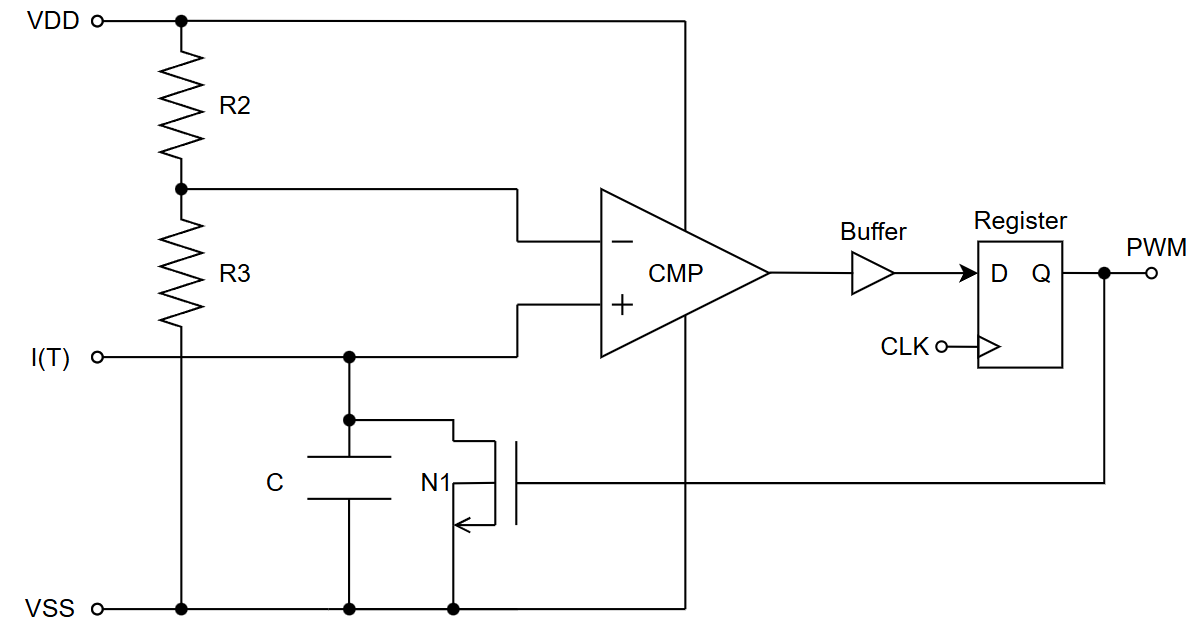
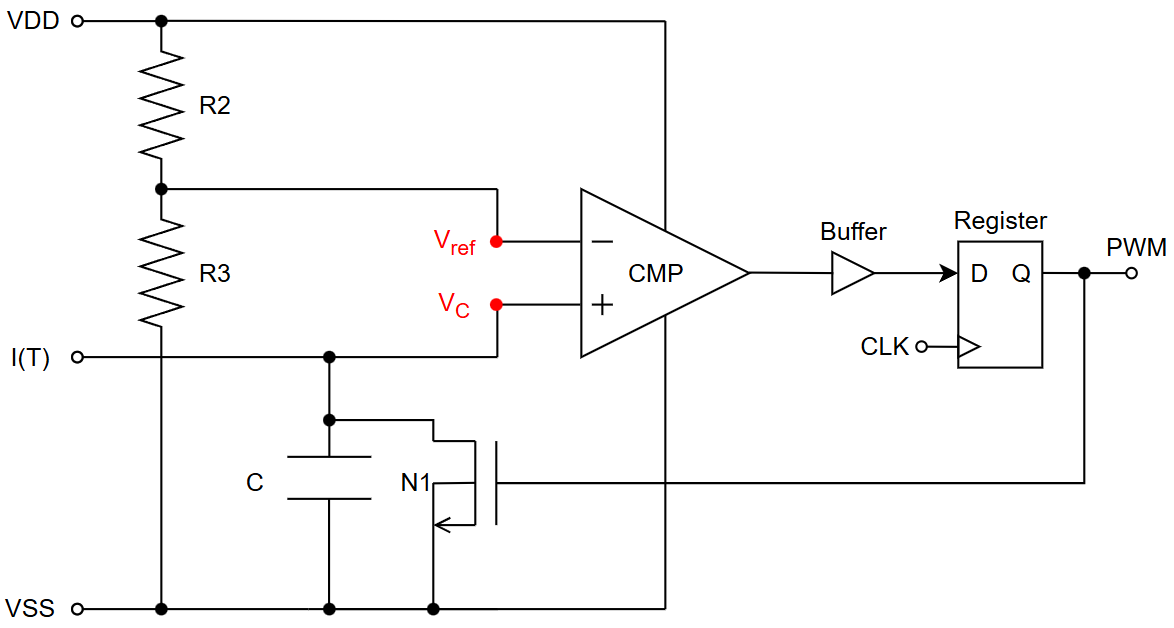
some minor fixes and extra images

Changed region(s): [[0.0, 0.0, 1.0, 0.9984], [0.5826, 0.4538, 0.6133, 0.4841]]

diff --git a/README.md b/README.md
@@ -15,7 +15,11 @@ The system is depicted below
 
 # Temp to Current, PTAT
 The PTAT circuit can be found in "design/JNW_GR07_SKY130A/temp_to_current.sch", and is shown
-in the image below. The circuit exploits the temperature (T) dependency and size difference (N)
+in the image below. 
+
+![i_ptat](/Images/PTAT.png)
+
+The circuit exploits the temperature (T) dependency and size difference (N)
 of diode 1 and diode 2 to create a current I(T) dependent on temperature. The voltage over diode 1
 is $V_{D1} = V_T ln\frac{I_D}{I_{S1}}$, and the voltage over diode 2 is $V_{D2} = V_T ln\frac{I_D}{I_{S2}}$.
 Assuming that the opamp is ideal, the voltage on it's negative input is set equal to it's positive input,
@@ -25,29 +29,33 @@ The current through $R_1$ is then $I_{R_1} = \frac{V_{R_1}}{R_1} = \frac{V_t}{R_
 Since $V_T = \frac{kT}{q}$, we get a current proportional to temperature: $I_{R_1}(T) = \frac{kT}{qR_1} ln(N)$. This current is copied using a current mirror,
  creating $I(T)$ and used as an output.
 
-![i_ptat](/Images/PTAT.png)
 
-\textbf{Note}: The diodes are realized by NPN transistors.
+
+**Note**: The diodes are realized by the NPN transistors Q1 and Q2.
 
 # Current to PWM
 The current to PWM circuit can be found in "design/JNW_GR07_SKY130A/temp_to_pwm_RA.sch", and is shown
-in the image below. The circuit used the input current $I(T)$ to charge a capacitor. The voltage across the capacitor is used as input voltage of the positive
+in the image below.
+
+![i_ptat](/Images/TempToPWM.png)
+
+The circuit used the input current $I(T)$ to charge a capacitor. The voltage across the capacitor is used as input voltage of the positive
 node of a comparator, $V^+ = V_C$. The negative node is connected to a reference voltage $V^- = V_{ref}$, created by a voltage divider consisting of two resistors, $R_2$ and $R_3$.
-This gives $V^- = V_{DD} \frac{R_3}{R_3+R_2}$. The voltage across the capacitor can be approximated as $V_C(t) = V^+ = \int_{0}^{t} I(T)C \ dt \approx tI(T)C$, assuming that
+This gives $V^- = V_{ref}= V_{DD} \frac{R_3}{R_3+R_2}$. The voltage across the capacitor can be approximated as $V_C(t) = V^+ = \int_{0}^{t} I(T)C \ dt \approx tI(T)C$, assuming that
 1. $V_C(t=0) = 0$, the voltage starts at 0 when time is 0.
 2. $\frac{\partial T}{\partial x} = 0$, the temperature is not dependent on time.
 
 The oputput of the comparator is set to high at time $t_0$, when $V^- = V^+(t_0)$. Using the previous equations this can be written as $V_{ref} = t_0I(T)C$.
 $t_0$ is thus given by $t_0 = \frac{V_{ref}}{I(t)C}$. The output of the comparator is buffered, then fed into a clocked register. The output of the register
-is the PWM signal, and is simultaneously used to reset the circuit. The reset is done by discharging the capacitor using an nmos connected to ground.
+is the PWM signal, and is simultaneously used to reset the circuit. The reset is done by discharging the capacitor using an nmos, N1, connected to ground.
 
 It can be shown using previous formulas (found in section "Temp to Current, PTAT"), that $\frac{\partial I(T)}{\partial T} > 0$,
 meaning that a higher T results in lower $t_0$. This means that higher temperatures results in a PWM signal with higher mean voltage (RMS). This is depicted
-the figure below.
+the figure below, where $T1 > T0$.
 
-![i_ptat](/Images/TempToPWM.png)
+![i_ptat](/Images/TimingDiagram.png)
 
-\textbf{Note}: There also exists a simple testbench, "design/JNW_GR07_SKY130A/temp_to_pwm_RA_TB.sch", that can be used for initial simulations of the circuit.
+**Note**: There also exists a simple testbench, "design/JNW_GR07_SKY130A/temp_to_pwm_RA_TB.sch", that can be used for initial simulations of the circuit.
 
 # Milestone 1
 
